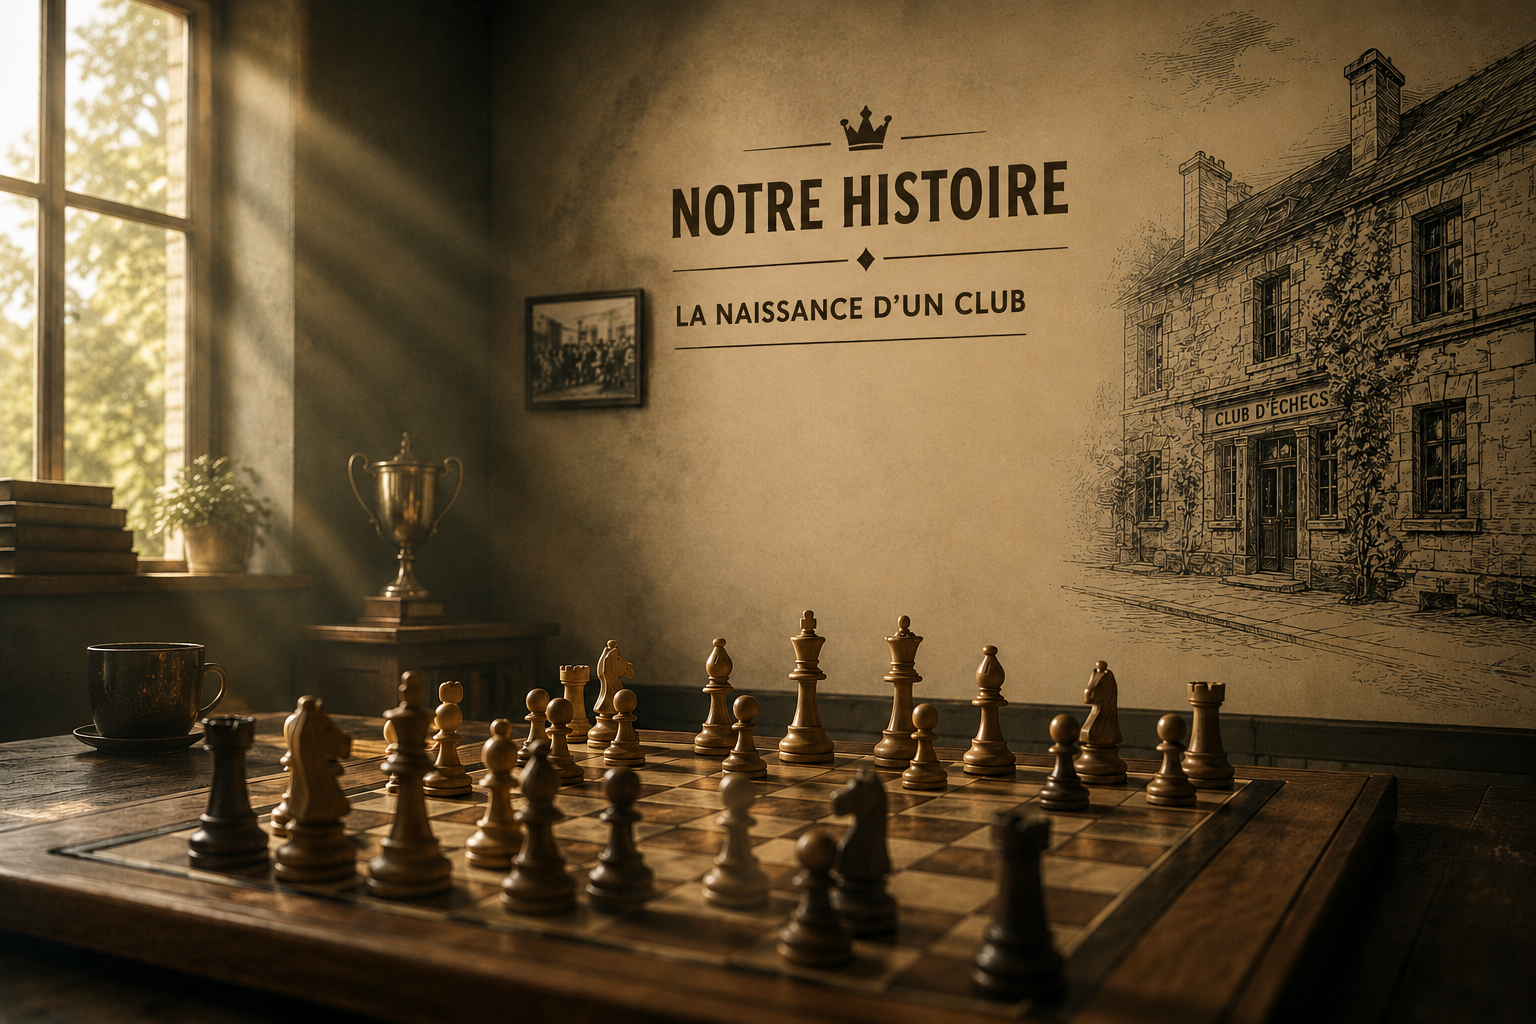
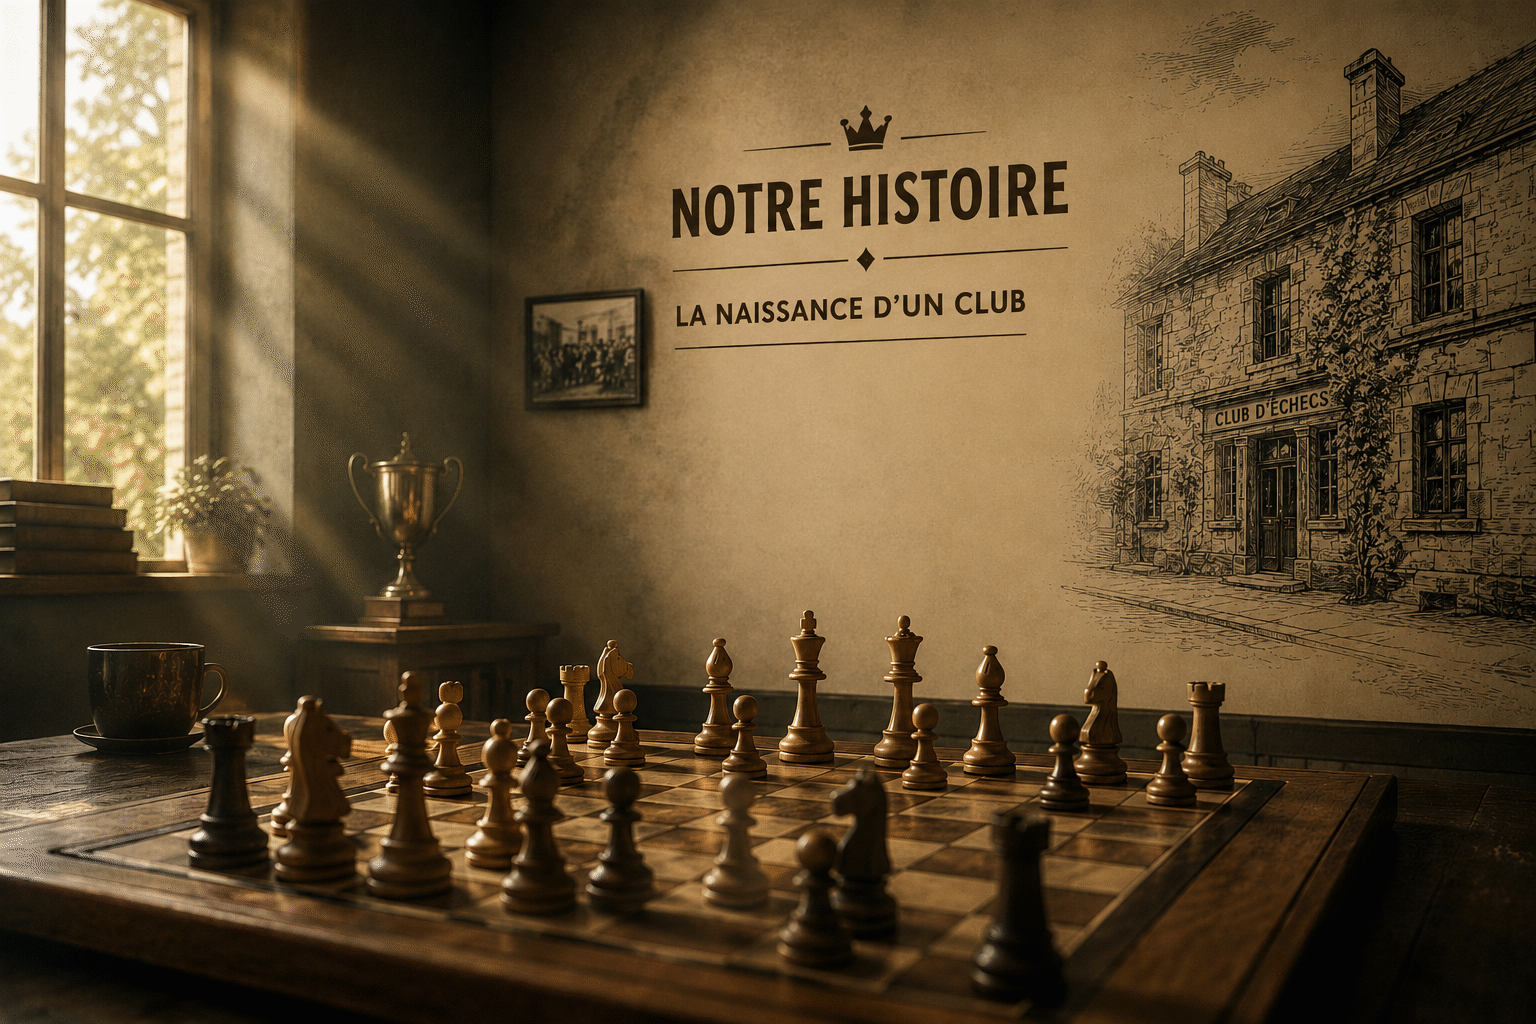
HeroCours + Contact page

diff --git a/app/cours/components/HeroCours.tsx b/app/cours/components/HeroCours.tsx
@@ -1,0 +1,43 @@
+export default function HeroCours() {
+  return (
+    <div
+      className="min-h-screen flex flex-col gap-10 justify-center items-center"
+      style={{
+        backgroundImage: "url('/cours_bg.png')",
+        backgroundRepeat: "no-repeat",
+        backgroundSize: "cover",
+      }}
+    >
+      <div className="bg-gray-50/30 py-6 rounded-xl w-3/5 backdrop-blur-md">
+        <h1 className="kaisei-opti-regular text-7xl font-bold text-center">
+          LES COURS DU CLUB
+        </h1>
+      </div>
+      <section className="flex flex-col gap-8 text-lg px-12 py-10 bg-[#282828] border-[#229B3C] border-2 text-[#F2F2F2] rounded-xl w-3/5">
+        <h2 className="kaisei-opti-regular text-5xl">Cours d'échecs Adultes</h2>
+
+        <p>
+          Le club propose des cours adultes, pour tout les niveaux, les
+          dimanches soirs (à partir du 5 avril), au 3 brasseurs de Sainte-Marie.
+        </p>
+        <p>
+          Les séances auront lieu les jeudis soirs (19h à 20h30) et les
+          dimanches soirs après le tournoi ChessBar (20h à 21h30)
+        </p>
+        <p>
+          Venez apprendre et booster votre élo avec nos coach dans une ambiance
+          conviviale !
+        </p>
+        <p>
+          Les prix affichés correspondent à ceux de la fin de saison, nous
+          feront des prix au prorata le cas échéant.
+        </p>
+        <p>
+          Pour toutes informations complémentaires, contactez nous sur notre
+          mail ou sur nos réseaux.
+        </p>
+        <p>Nous vous attendons nombreuses et nombreux !</p>
+      </section>
+    </div>
+  );
+}

diff --git a/app/about/components/HeroAbout.tsx b/app/about/components/HeroAbout.tsx
@@ -8,11 +8,11 @@ export default function HeroAbout() {
         backgroundSize: "cover",
       }}
     >
-      <div className="bg-gray-50/30 px-10 py-30 rounded-xl w-2/3 backdrop-blur-md">
-        <h1 className="kaisei-opti-regular text-7xl font-bold mb-4 text-center">
+      <div className="bg-gray-50/30 px-10 py-30 rounded-xl w-3/5 backdrop-blur-md">
+        <h1 className="kaisei-opti-regular text-7xl font-bold mb-10 text-center">
           À PROPOS
         </h1>
-        <p className="text-center">
+        <p className="text-center text-xl">
           Le club a été créé en 2025 par quelques passionnés du jeu d'échecs.{" "}
           <br />
           L'objectif est de créer un espace bienveillant et de transmettre la

diff --git a/app/components/layout/Nav.tsx b/app/components/layout/Nav.tsx
@@ -5,7 +5,7 @@ export default function Nav() {
     <nav className="text-lg bg-transparent text-black p-4">
       <ul className="flex h-10 px-4">
         <NavItem href="/" label="Accueil" />
-        <NavItem href="/" label="Cours" />
+        <NavItem href="/cours" label="Cours" />
         <NavItem href="/actualité" label="Actualités" />
         <NavItem href="/contact" label="Contact" />
         <NavItem href="/about" label="À propos" />

diff --git a/app/about/page.tsx b/app/about/page.tsx
@@ -4,7 +4,7 @@ import Partenaire from "./components/Partenaire";
 
 export default function About() {
   return (
-    <div className="pt-28">
+    <div>
       <HeroAbout />
 
       <Partenaire />

diff --git a/app/cours/page.tsx b/app/cours/page.tsx
@@ -1,0 +1,9 @@
+import HeroCours from "./components/HeroCours";
+
+export default function Cours() {
+  return (
+    <div className="min-h-screen">
+      <HeroCours />
+    </div>
+  );
+}

diff --git a/app/contact/page.tsx b/app/contact/page.tsx
@@ -1,0 +1,9 @@
+import Contact from "../components/home/Contact";
+
+export default function ContactPage() {
+  return (
+    <div>
+      <Contact />
+    </div>
+  );
+}
